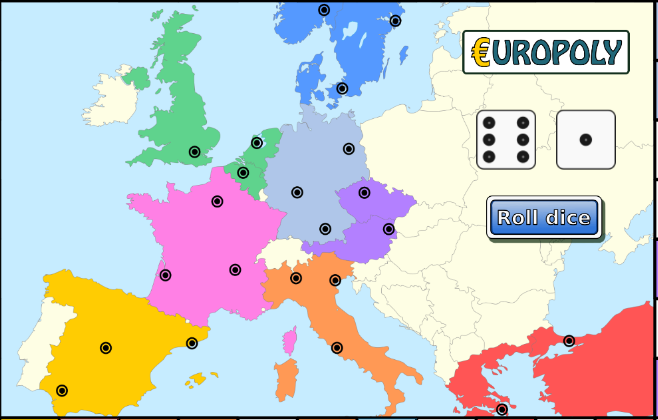
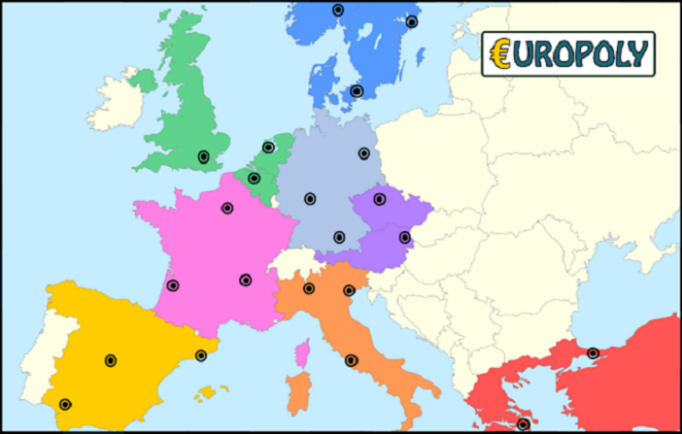
Finishedgit add --all!

diff --git a/original/playerGUI/GamePanel.java b/original/playerGUI/GamePanel.java
@@ -25,6 +25,9 @@ import javax.swing.JLabel;
 import javax.swing.JOptionPane;
 import javax.swing.JPanel;
 import javax.swing.OverlayLayout;
+import javax.swing.border.Border;
+import javax.swing.border.CompoundBorder;
+import javax.swing.border.EmptyBorder;
 
 import serverBackend.dice.Dice;
 
@@ -42,6 +45,7 @@ public class GamePanel extends JPanel {
 	private JPanel dice1 = new JPanel();
 	private JPanel dice2 = new JPanel();
 	
+	private ImagePanel imageCenterPanel;
 	private ImageIcon backgroundImage;
 	
 	private JLabel label1;
@@ -75,22 +79,28 @@ public class GamePanel extends JPanel {
 
 	public GamePanel(GamePanelControl gpc) {
 		squareCollections = new ArrayList<>();
+		this.setBackground(new Color(44, 137, 160));
 		this.gpc = gpc;
-		backgroundImage =  new ImageIcon(SquarePanel.class.getResource("/board.png"));
+		backgroundImage =  new ImageIcon(SquarePanel.class.getResource("/centerimage.PNG"));
 		BoardPanel();
 	}
 
 	private void BoardPanel() {
 		this.setLayout(new BorderLayout());
 		
-		ImagePanel imagePanel = new ImagePanel(backgroundImage.getImage());
+		imageCenterPanel = new ImagePanel(backgroundImage.getImage());
 		
 		northPanel.setLayout(new FlowLayout(FlowLayout.LEADING, 0, 0));
+		northPanel.setOpaque(false);
 		southPanel.setLayout(new FlowLayout(FlowLayout.LEADING, 0, 0));
+		southPanel.setOpaque(false);
 		westPanel.setLayout(new BoxLayout(westPanel, BoxLayout.Y_AXIS));
+		westPanel.setOpaque(false);
 		eastPanel.setLayout(new BoxLayout(eastPanel, BoxLayout.Y_AXIS));
+		eastPanel.setOpaque(false);
 		
 		centerPanel.setLayout(new FlowLayout());
+		centerPanel.setOpaque(false);
 		
 		label1 = new JLabel();
 		tempImage1 = new ImageIcon(GamePanel.class.getResource("/Alea_1.png"));
@@ -110,84 +120,71 @@ public class GamePanel extends JPanel {
 		roll.addActionListener(gpc);
 		roll.setVisible(false);
 		
-		JLabel label3 = new JLabel("test");
-		JLabel label4 = new JLabel("test");
-		
-		
-		
 		JPanel dicePanel = new JPanel(new GridLayout(1,2,10,1));
 
-		
 		dice1 = new JPanel(new FlowLayout());
 		dice1.setSize(50, 50);
 		dice1.add(label1);
+		dice1.setOpaque(false);
 		
 		dice2 = new JPanel(new FlowLayout());
 		dice2.add(label2);
+		dice2.setOpaque(false);
+		
 		JPanel rollbuttonbuffer = new JPanel();
 		rollbuttonbuffer.add(roll);
+		rollbuttonbuffer.setOpaque(false);
 		
 		
 		JPanel panel3 = new JPanel (new GridLayout(2,1,1,0));
 		dicePanel.add(dice1);
 		dicePanel.add(dice2);
+		dicePanel.setOpaque(false);
 		panel3.add(dicePanel);
 		panel3.add(rollbuttonbuffer);
+		panel3.setOpaque(false);
 		
 		JPanel centerwest = new JPanel(new FlowLayout());
 		JPanel centereast = new JPanel(new FlowLayout());
-//		centerPanel.add(centerwest, BorderLayout.WEST);
-//		centerPanel.add(centereast, BorderLayout.EAST);
-//		centerPanel.add(centerwest, BorderLayout.WEST);
-//		centerPanel.add(centereast, BorderLayout.EAST);
+		centerwest.setOpaque(false);
+		centereast.setOpaque(false);
 		//centerwest.add(label3); India use centerwest, i will use centereast
 		//land information
 		JPanel labelPanel = new JPanel(new GridLayout(3,1,0,10));
+		labelPanel.setOpaque(false);
 		labelPanel.add(propertyNameLabel);
 		labelPanel.add(rentPriceLabel);
 		labelPanel.add(purchasePriceLabel);
 		
 		//button panel
 		JPanel buttonPanel = new JPanel(new GridLayout(2,1,0,5));
+		buttonPanel.setOpaque(false);
 		buyBttn.addActionListener(gpc);
 		cancelBttn.addActionListener(gpc);
-		buyBttn.setVisible(true);
-		cancelBttn.setVisible(true);
+		buyBttn.setVisible(false);
+		cancelBttn.setVisible(false);
 		buttonPanel.add(buyBttn);
 		buttonPanel.add(cancelBttn);
 		
-	    JPanel landInfoPanel = new JPanel();
+	    JPanel landInfoPanel = new JPanel(new GridLayout(2, 1, 0, 10));
+	    landInfoPanel.setOpaque(false);
 	    landInfoPanel.add(labelPanel);
 	    landInfoPanel.add(buttonPanel);
-	    landInfoPanel.setOpaque(false);
-	    landInfoPanel.setAlignmentX(RIGHT_ALIGNMENT);
-	    landInfoPanel.setAlignmentY(CENTER_ALIGNMENT);
-
-		OverlayLayout myLayout = new OverlayLayout(centerPanel);
-		centerPanel.setLayout(myLayout);
 	    
-//		centerwest.add(landInfoPanel);
-//		centereast.add(panel3);
-		centerPanel.add(landInfoPanel);
-		centerPanel.add(cancelBttn);
-//		centerPanel.add(centerwest, BorderLayout.WEST);
-//		centerPanel.add(centereast, BorderLayout.EAST);
-//		centerPanel.add(buyBttn);
-//		centerPanel.add(cancelBttn);
-		JLabel backgroundLabel = new JLabel();
-		backgroundLabel.setIcon(new ImageIcon(backgroundImage.getImage().getScaledInstance(680, 430, java.awt.Image.SCALE_SMOOTH)));
-		backgroundLabel.setAlignmentX(TOP_ALIGNMENT);
-		backgroundLabel.setAlignmentY(TOP_ALIGNMENT);
-		centerPanel.add(backgroundLabel);
-		
-		this.setPreferredSize(new Dimension((int)(900 * resize), (int)(600 * resize)));
+		centerwest.add(landInfoPanel);
+		centereast.add(panel3);
+		centerPanel.add(centerwest, BorderLayout.WEST);
+		centerPanel.add(centereast, BorderLayout.EAST);
+		imageCenterPanel.add(centerPanel);
 
 		addSquares();
 		
 		//add(roll, BorderLayout.CENTER);
 		JPanel westouter = new JPanel(new BorderLayout());
+		westouter.setOpaque(false);
 		JPanel eastouter = new JPanel(new BorderLayout());
-		westouter.add(centerPanel, BorderLayout.CENTER);
+		eastouter.setOpaque(false);
+		westouter.add(imageCenterPanel, BorderLayout.CENTER);
 		westouter.add(southPanel, BorderLayout.SOUTH);
 		westouter.add(northPanel, BorderLayout.NORTH);
 		westouter.add(westPanel, BorderLayout.WEST);
@@ -195,21 +192,53 @@ public class GamePanel extends JPanel {
 		
 		
 		JPanel playergrid = new JPanel();
-		playergrid.setLayout(new GridLayout(2, 1, 0, 10));
+		playergrid.setBackground(Color.WHITE);
+		playergrid.setLayout(new BoxLayout(playergrid, BoxLayout.Y_AXIS));
 		
 		player1 = new JLabel("Player 1");
+		player1.setForeground(Color.RED);
+		Border player1Border = player1.getBorder();
+		Border player1Margin = new EmptyBorder(5,20,0,20);
+		player1.setFont(new Font("Verdana", Font.PLAIN, 32));
+		player1.setBorder(new CompoundBorder(player1Border, player1Margin));
+		
 		player1Name = new JLabel("Player");
-		player1Money = new JLabel("40000");
+		Border player1NameBorder = player1Name.getBorder();
+		player1Name.setFont(new Font("Verdana", Font.PLAIN, 18));
+		player1Name.setBorder(new CompoundBorder(player1NameBorder, player1Margin));
+		
+		player1Money = new JLabel("Money: 40000");
+		Border player1MoneyBorder = player1Name.getBorder();
+		Border player1MoneyMargin = new EmptyBorder(5,20,50,20);
+		player1Money.setFont(new Font("Verdana", Font.PLAIN, 18));
+		player1Money.setBorder(new CompoundBorder(player1MoneyBorder, player1MoneyMargin));
+
 		JPanel panelPlayer1 = new JPanel(new FlowLayout());
+		panelPlayer1.setOpaque(false);
 		panelPlayer1.setLayout(new BoxLayout(panelPlayer1, BoxLayout.Y_AXIS));
 		panelPlayer1.add(player1);
 		panelPlayer1.add(player1Name);
 		panelPlayer1.add(player1Money);
 		
 		player2 = new JLabel("Player 2");
-		player2Name = new JLabel("Player");
-		player2Money = new JLabel("40000");
+		player2.setForeground(Color.BLUE);
+		Border player2Border = player2.getBorder();
+		Border player2Margin = new EmptyBorder(5,20,0,20);
+		player2.setFont(new Font("Verdana", Font.PLAIN, 32));
+		player2.setBorder(new CompoundBorder(player2Border, player2Margin));
+		
+		player2Name = new JLabel("Name: Player");
+		Border player2NameBorder = player2Name.getBorder();
+		player2Name.setFont(new Font("Verdana", Font.PLAIN, 18));
+		player2Name.setBorder(new CompoundBorder(player2NameBorder, player2Margin));
+		
+		player2Money = new JLabel("Money: 40000");
+		Border player2MoneyBorder = player1Name.getBorder();
+		player2Money.setFont(new Font("Verdana", Font.PLAIN, 18));
+		player2Money.setBorder(new CompoundBorder(player2MoneyBorder, player2Margin));
+		
 		JPanel panelPlayer2 = new JPanel(new FlowLayout());
+		panelPlayer2.setOpaque(false);
 		panelPlayer2.setLayout(new BoxLayout(panelPlayer2, BoxLayout.Y_AXIS));
 		panelPlayer2.add(player2);
 		panelPlayer2.add(player2Name);
@@ -221,9 +250,11 @@ public class GamePanel extends JPanel {
 		eastouter.add(playergrid);
 		
 		JPanel buffer = new JPanel(new BorderLayout());
+		buffer.setOpaque(false);
 		
 		buffer.add(westouter, BorderLayout.WEST);
 		buffer.add(eastouter,  BorderLayout.EAST);
+		this.setPreferredSize(new Dimension((int)(950 * resize), (int)(600 * resize)));
 		add(buffer);
 	}
 	
@@ -241,9 +272,9 @@ public class GamePanel extends JPanel {
 		
 		for(int i = 0; i < name.size(); i++) {
 			if(i  == 0) {
-				player1Name.setText(name.get(i));
+				player1Name.setText("Name: " + name.get(i));
 			} else if(i == 1) {
-				player2Name.setText(name.get(i));
+				player2Name.setText("Name: " + name.get(i));
 			}
 		}
 		 
@@ -253,9 +284,9 @@ public class GamePanel extends JPanel {
 		
 		for(int i = 0; i < money.size(); i++) {
 			if(i == 0) {
-				player1Money.setText(Integer.toString(money.get(i)));
+				player1Money.setText("Money: " + Integer.toString(money.get(i)));
 			} else if (i == 1) {
-				player2Money.setText(Integer.toString(money.get(i)));
+				player2Money.setText("Money: " + Integer.toString(money.get(i)));
 			}
 		}
 	}
@@ -310,6 +341,10 @@ public class GamePanel extends JPanel {
 		JOptionPane.showMessageDialog(this, "You lost.", "Monopoly", JOptionPane.INFORMATION_MESSAGE);
 	}
 	
+	private void setPlayerTable() {
+		
+	}
+	
 	private void addSquares() {
 		int scaleX = (int) (40 * resize);
 		int scaleY = (int) (50 * resize);
@@ -357,6 +392,7 @@ public class GamePanel extends JPanel {
 
 		for(int i = 0; i < squareCollections.size(); i++) {
 			squareCollections.get(i).setBorder(BorderFactory.createEmptyBorder(1, 1, 1, 1));
+			squareCollections.get(i).setOpaque(false);
 		}
 		
 		// display players at the start

diff --git a/original/playerGUI/ImagePanel.java b/original/playerGUI/ImagePanel.java
@@ -10,19 +10,13 @@ import javax.swing.JPanel;
 
 public class ImagePanel extends JPanel{
 	private Image image = null;
-	private JLabel backgroundLabel = new JLabel();
 	
 	public ImagePanel(Image image) {
-		this.image = image.getScaledInstance(700, 400, java.awt.Image.SCALE_SMOOTH);
-		backgroundLabel.setIcon(new ImageIcon(this.image));
-		backgroundLabel.setAlignmentX(TOP_ALIGNMENT);
-		backgroundLabel.setAlignmentY(TOP_ALIGNMENT);
-		add(backgroundLabel);
-		this.setPreferredSize(new Dimension(650, 800));
+		this.image = image;
 	}
 	
-//	public void paintComponent(Graphics g) {
-//		super.paintComponent(g);
-//		g.drawImage(image, 0, 0, null);
-//	}
+	public void paintComponent(Graphics g) {
+		super.paintComponent(g);
+		g.drawImage(image, 0, 0, null);
+	}
 }

diff --git a/original/playerGUI/LoginControl.java b/original/playerGUI/LoginControl.java
@@ -36,9 +36,7 @@ public class LoginControl implements ActionListener
     {
       // Get the username and password the user entered.
       LoginPanel loginPanel = (LoginPanel)container.getComponent(1);
-//      LoginData data = new LoginData(loginPanel.getUsername(), loginPanel.getPassword());
-      
-      LoginData data = new LoginData("longtin", "longtin");
+      LoginData data = new LoginData(loginPanel.getUsername(), loginPanel.getPassword());
       
       // Check the validity of the information locally first.
       if (data.getUsername().equals("") || data.getPassword().equals(""))

diff --git a/original/playerGUI/ClientGUI.java b/original/playerGUI/ClientGUI.java
@@ -67,9 +67,9 @@ public class ClientGUI extends JFrame
     // GridBagLayout makes the container stay centered in the window.
     this.setLayout(new GridBagLayout());
     this.add(container);
-
     // Show the JFrame.
-    this.setSize(950, 650);
+    this.setSize(1100, 650);
+    this.getContentPane().setBackground(new Color(44, 137, 160));
     //this.setResizable(true);
     this.setLocationRelativeTo(null);
     this.setVisible(true);
